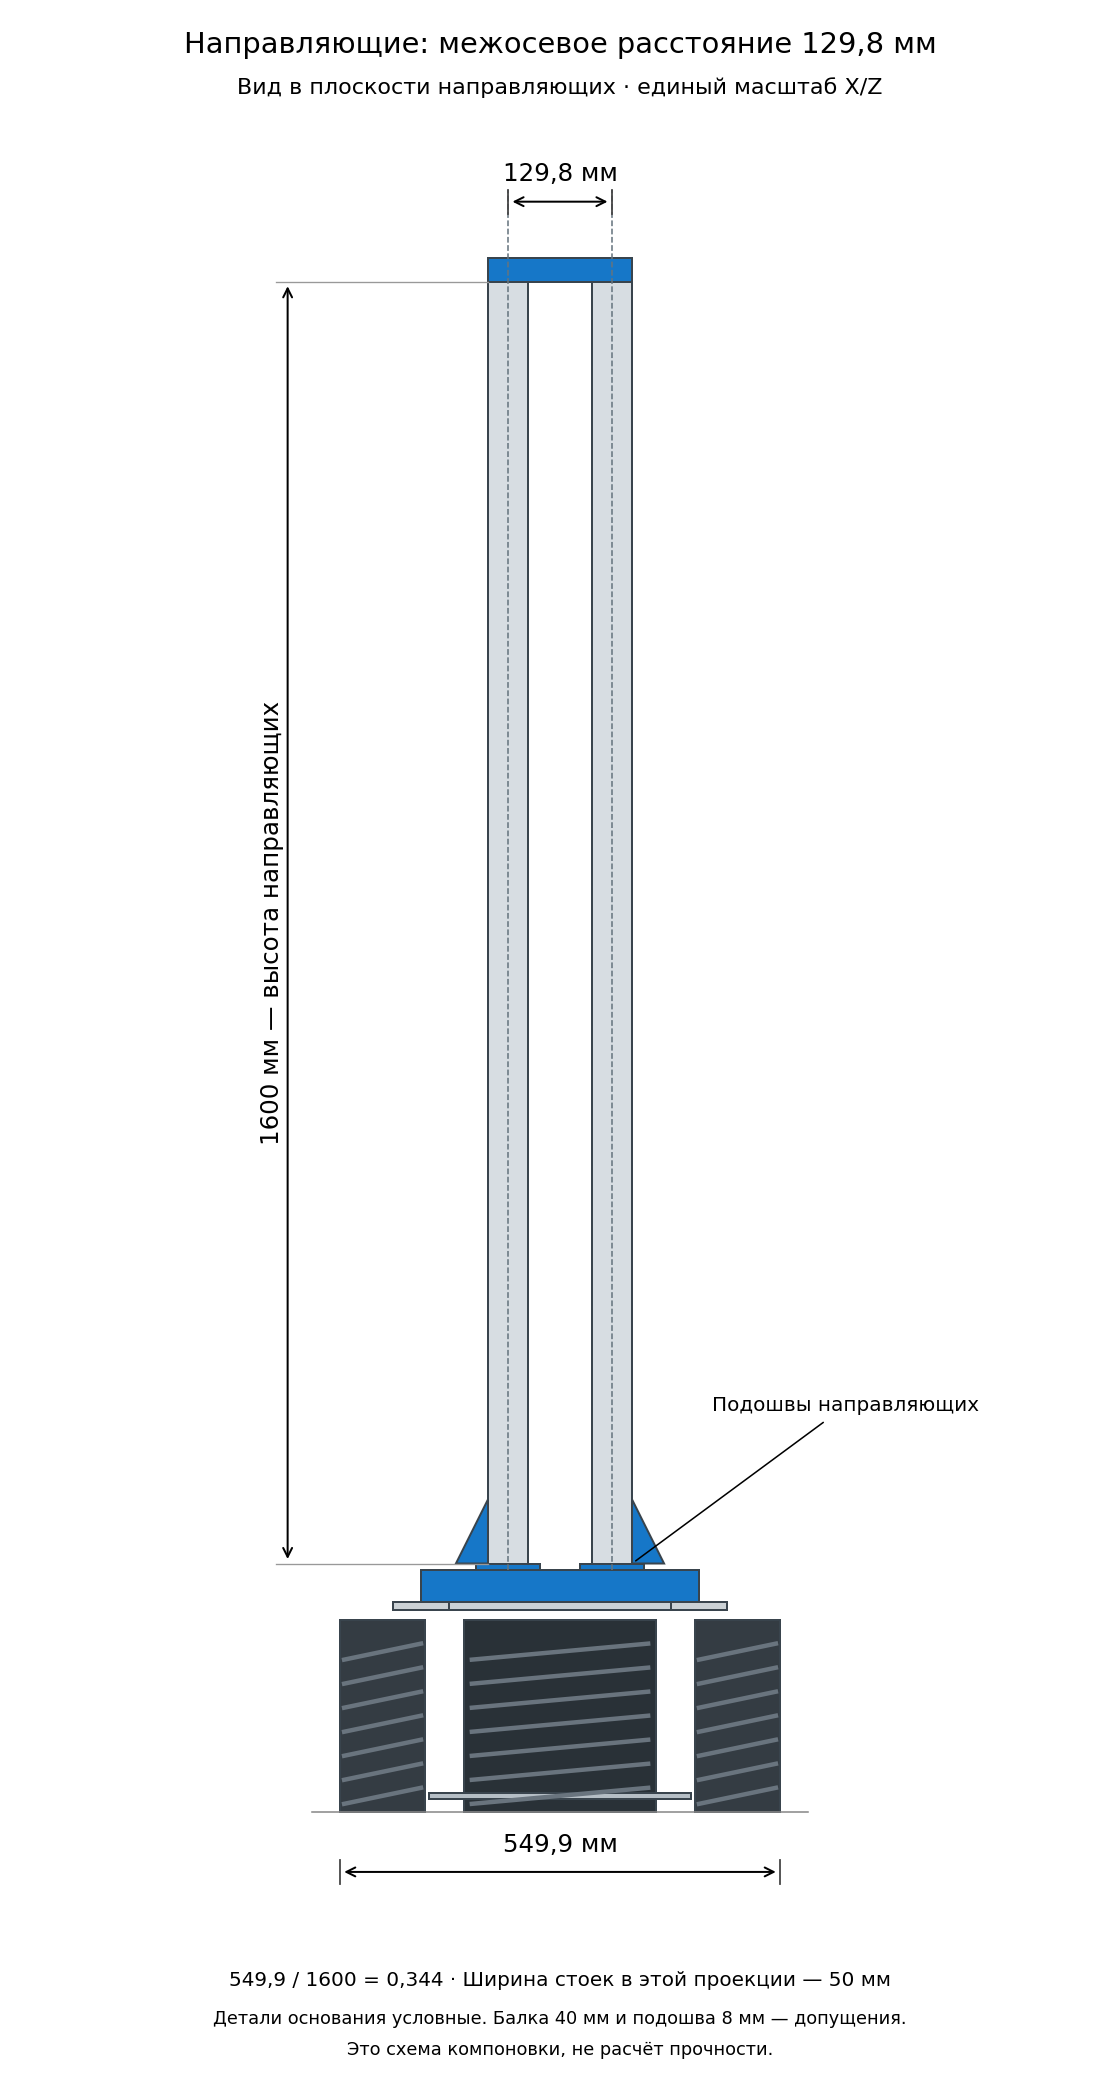
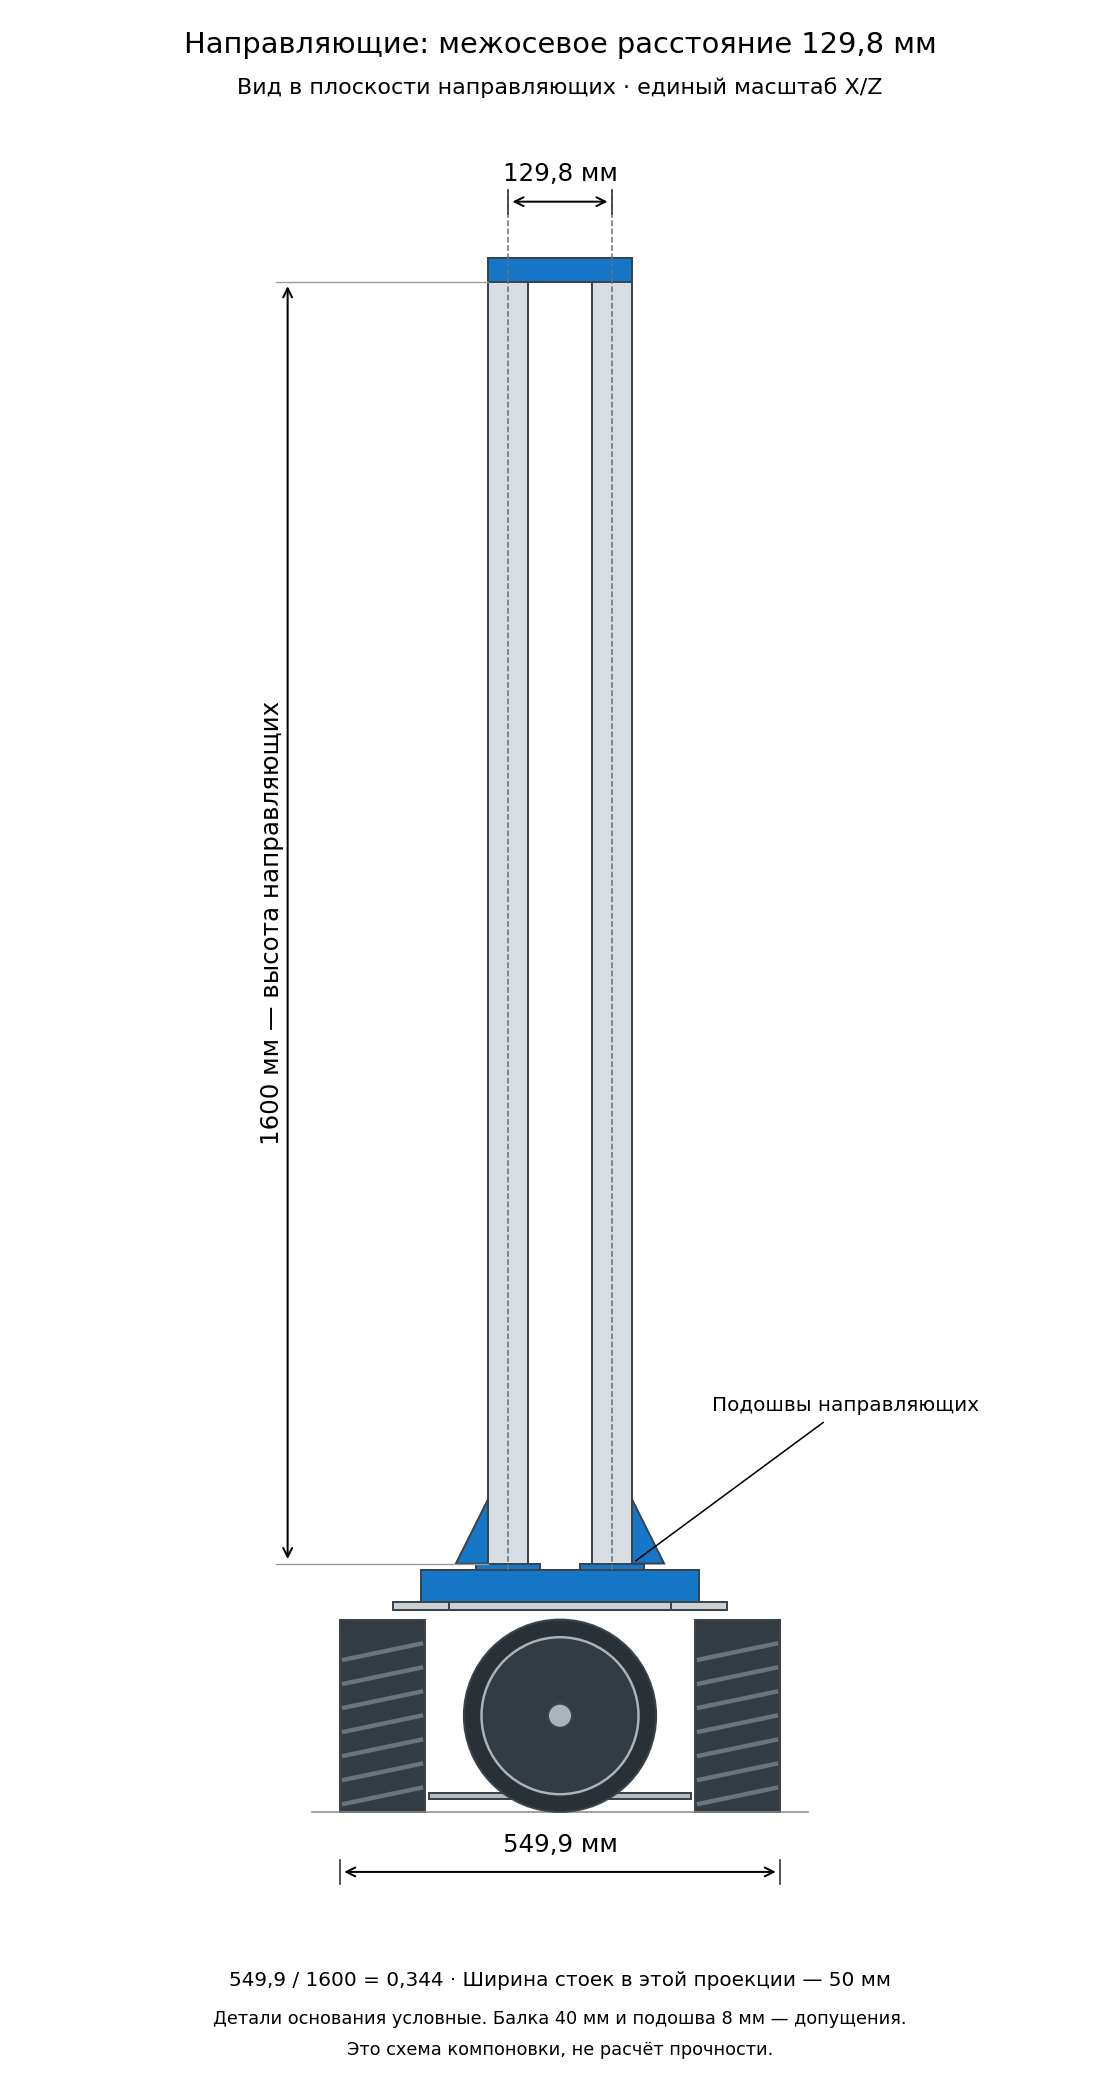
backup: резервная копия проекта

Changed region(s): [[0.4062, 0.7812, 0.5938, 0.875]]

diff --git a/draw_lift_scaled.py b/draw_lift_scaled.py
@@ -7,7 +7,7 @@ os.environ['MPLCONFIGDIR'] = str(ROOT / '.work' / 'matplotlib')
 import matplotlib
 matplotlib.use('Agg')
 import matplotlib.pyplot as plt
-from matplotlib.patches import Rectangle, Polygon
+from matplotlib.patches import Rectangle, Polygon, Circle
 
 fig, ax = plt.subplots(figsize=(7, 13))
 blue = '#1677c8'
@@ -23,9 +23,13 @@ for cx in (-221.50454169735046, 221.50454169735046):
     box(cx-53.45, 0, 106.9, 240, '#343c43')
     for z in range(10, 220, 30):
         ax.plot([cx-48, cx+48], [z, z+20], color='#69747e', lw=2)
-box(-120, 0, 240, 240, '#293137')
-for z in range(10, 220, 30):
-    ax.plot([-110, 110], [z, z+20], color='#69747e', lw=2)
+# Центральное колесо видно вдоль оси: круг Ø240 мм, центр на высоте 120 мм.
+ax.add_patch(Circle((0, 120), 120, facecolor='#293137',
+                    edgecolor='#39444d', linewidth=0.9, zorder=4))
+ax.add_patch(Circle((0, 120), 98, facecolor='#343c43',
+                    edgecolor='#aab4bc', linewidth=1.1, zorder=5))
+ax.add_patch(Circle((0, 120), 15, facecolor='#aab4bc',
+                    edgecolor='#39444d', linewidth=0.9, zorder=6))
 box(-163, 16, 326, 8, '#b5bec5')
 for x in (-208, 138):
     box(x, 252, 70, 10, '#cbd1d5')
